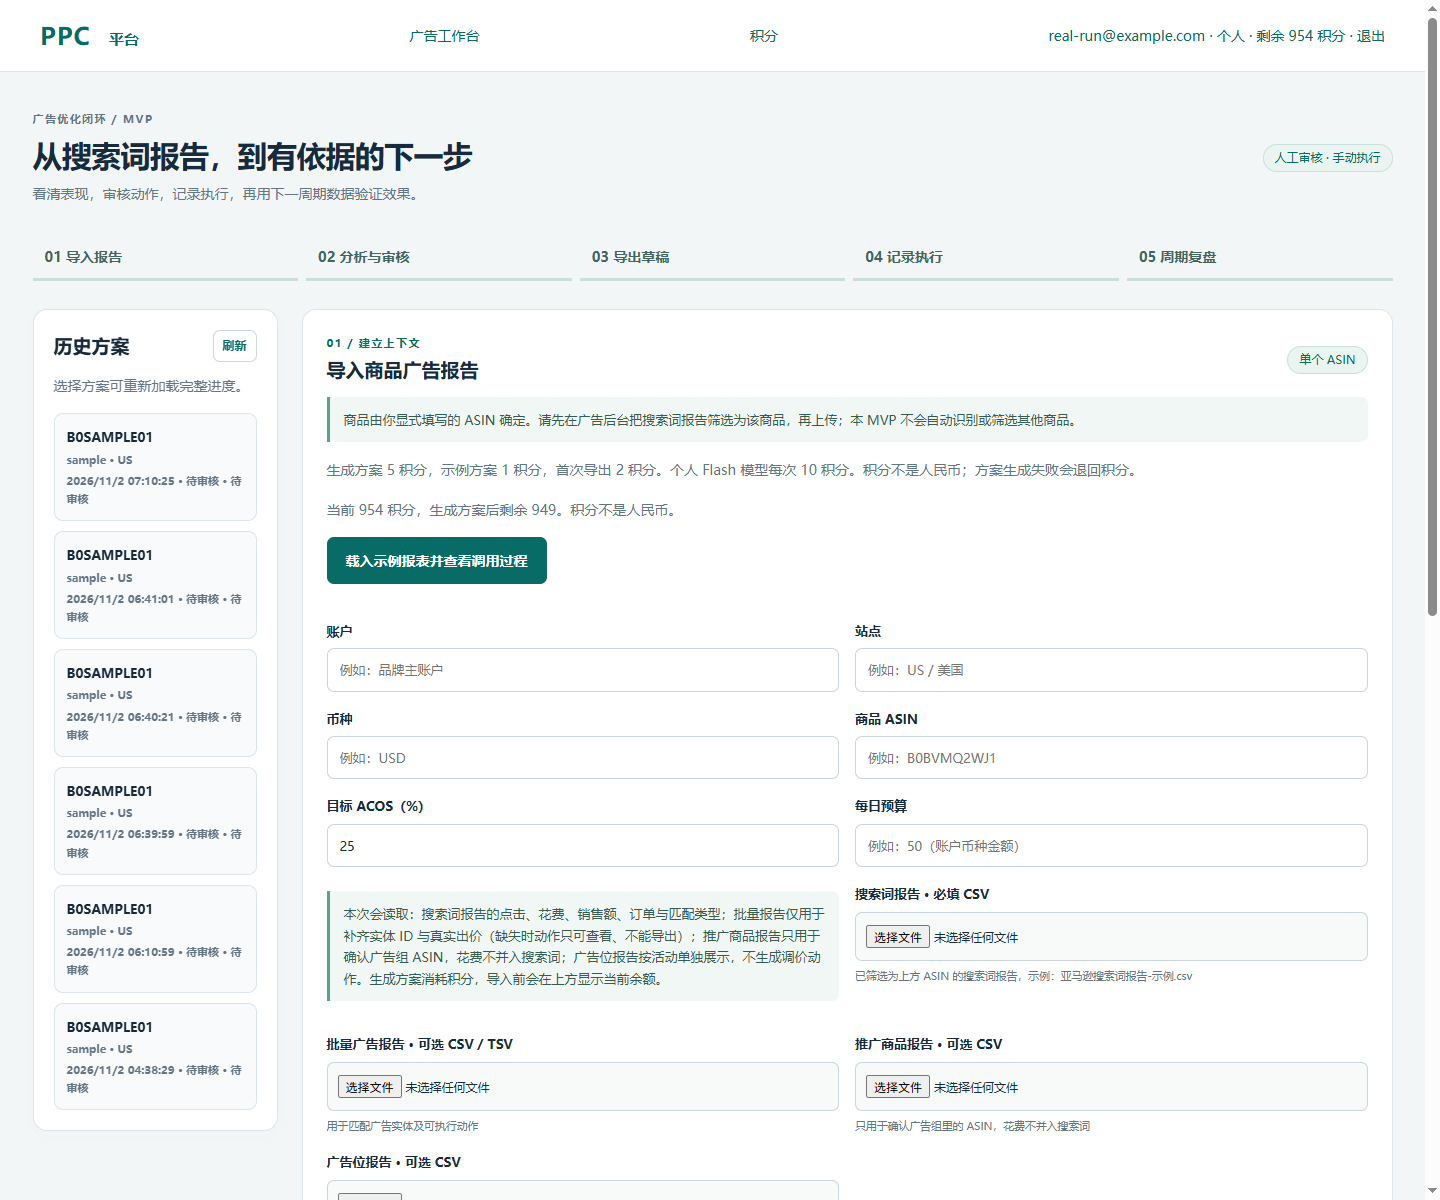
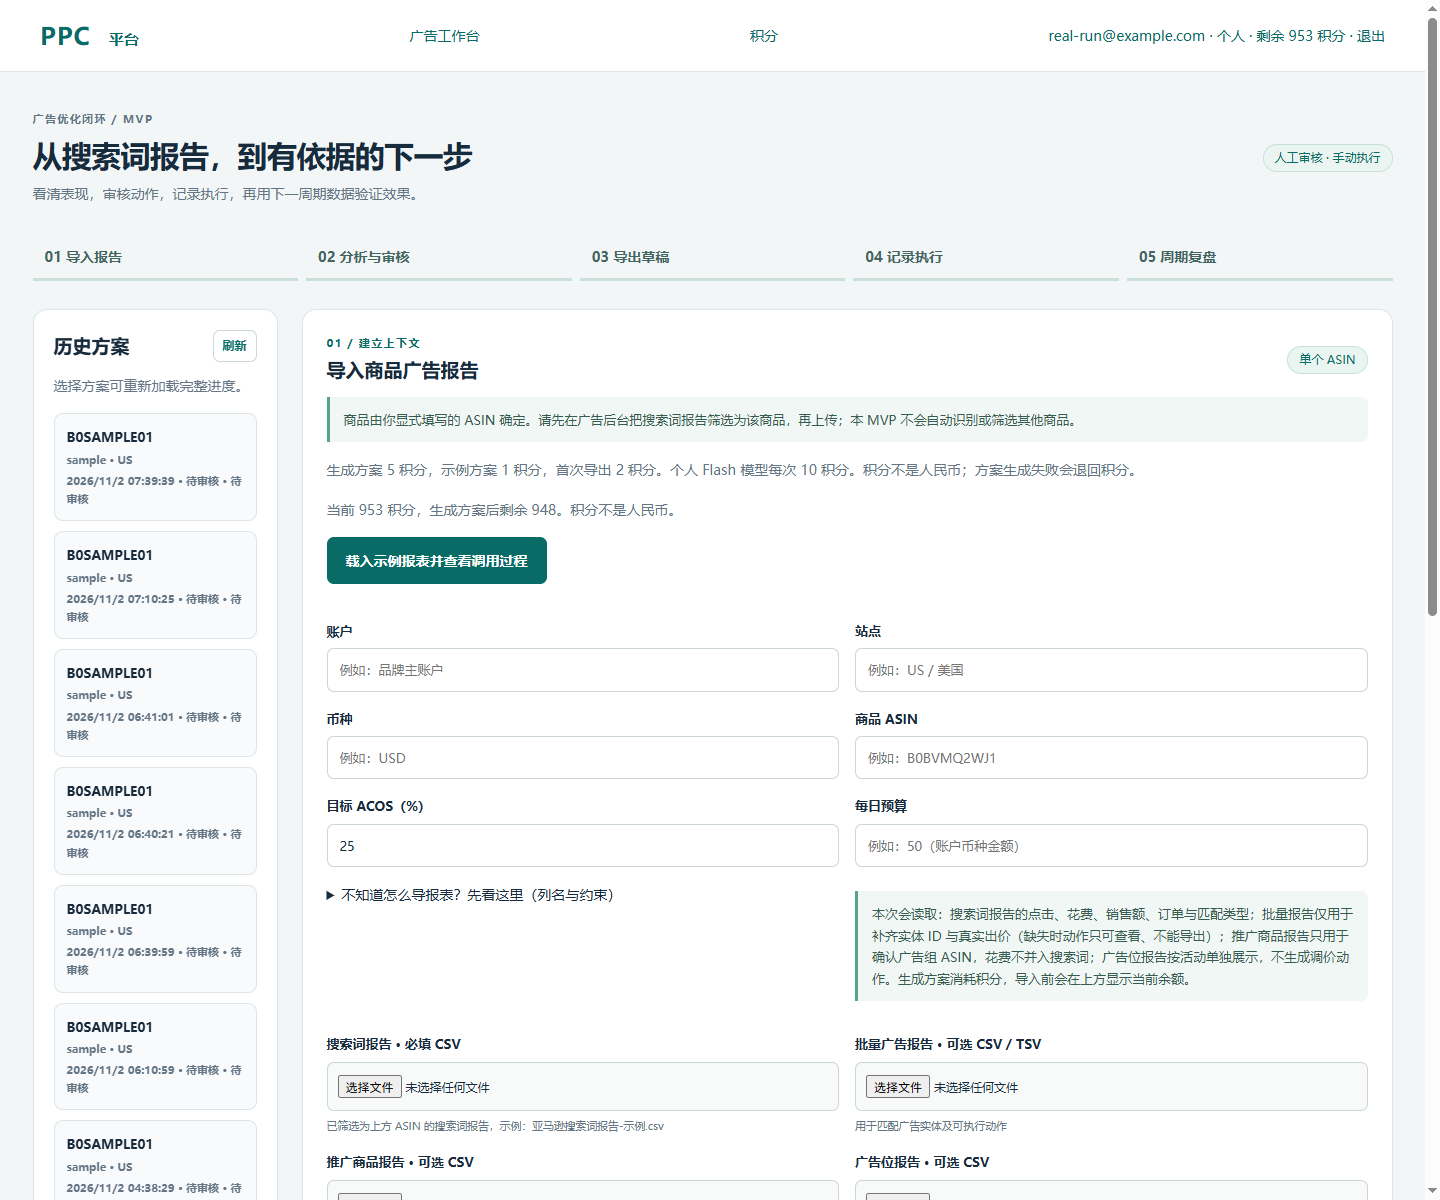
feat: add import report help with backend-synced column checks

diff --git a/frontend/workflow.html b/frontend/workflow.html
@@ -35,7 +35,13 @@
           <label>商品 ASIN<input name="asin" required maxlength="100" placeholder="例如：B0BVMQ2WJ1"></label>
           <label>目标 ACOS（%）<input name="target_acos" type="number" required min="0.01" step="0.01" value="25"></label>
           <label>每日预算<input name="daily_budget" type="number" required min="0.01" step="0.01" placeholder="例如：50（账户币种金额）"></label>
-          <p class="callout" id="import-scope">本次会读取：搜索词报告的点击、花费、销售额、订单与匹配类型；批量报告仅用于补齐实体 ID 与真实出价（缺失时动作只可查看、不能导出）；推广商品报告只用于确认广告组 ASIN，花费不并入搜索词；广告位报告按活动单独展示，不生成调价动作。生成方案消耗积分，导入前会在上方显示当前余额。</p>
+          <details id="import-help"><summary>不知道怎么导报表？先看这里（列名与约束）</summary>
+          <p>搜索词报告<b>必须</b>包含这些列（中英文表头都认）：客户搜索词 / Customer Search Term、广告活动 / Campaign、广告组 / Ad Group、关键词 / Keyword、匹配类型 / Match Type、花费 / Spend、销售额 / Sales、订单 / Orders、点击 / Clicks。</p>
+          <p>可选但有用：日期 / Date（或开始日期 / 结束日期），用于确定周期；账户 / Account、站点 / Marketplace、币种 / Currency、ASIN，用于和上方填写的上下文核对——报告里有这些列时会和要求的值逐一比对，不一致会直接失败。</p>
+          <p>约束：请先按<b>单个 ASIN</b> 筛选再导出，本工作台一次只分析一个商品；周期建议 30–60 天且区间连续；不要提交同维度同周期的重复行（会被拒绝）。</p>
+          <p><b>后台路径请以你自己账户的 Seller Central 为准</b>：不同站点、语言和改版后菜单位置会变化，我们无法替你确认；导出的 CSV 若缺列，系统会明确列出缺少哪些列。</p>
+        </details>
+        <p class="callout" id="import-scope">本次会读取：搜索词报告的点击、花费、销售额、订单与匹配类型；批量报告仅用于补齐实体 ID 与真实出价（缺失时动作只可查看、不能导出）；推广商品报告只用于确认广告组 ASIN，花费不并入搜索词；广告位报告按活动单独展示，不生成调价动作。生成方案消耗积分，导入前会在上方显示当前余额。</p>
           <label class="file-field">搜索词报告 · 必填 CSV<input name="search_terms" type="file" accept=".csv" required><small>已筛选为上方 ASIN 的搜索词报告，示例：亚马逊搜索词报告-示例.csv</small></label>
           <label class="file-field">批量广告报告 · 可选 CSV / TSV<input name="bulk" type="file" accept=".csv,.tsv"><small>用于匹配广告实体及可执行动作</small></label>
           <label class="file-field">推广商品报告 · 可选 CSV<input name="advertised_products" type="file" accept=".csv"><small>只用于确认广告组里的 ASIN，花费不并入搜索词</small></label>

diff --git a/docs/原型对标技术拆解.md b/docs/原型对标技术拆解.md
@@ -113,4 +113,15 @@ D1 → D2 → D3（P0 一次提交）；D4 → D5 → D6（P1 一次提交）。
 - D16 **仪表盘结论句**（2026-11-02 落地）：`reading.js` 新增 `planListConclusion()`，在最近方案列表上方给出「共 N 个方案：可导出 M 个、待审核 K 个 + 下一步指引」，并固定声明列表中的可核对花费不是已节省广告费。真实账号实测：「共 7 个方案：可导出 0 个、待审核 7 个。建议先处理最近的待审核方案，逐项批准后再导出。」
   - 测试 13 项（reading.test.cjs）：含空列表指向下一步、可导出/待审核计数、全部可导出时改为下载核对指引、不把历史花费写成节省。
 
+## D17 导入帮助块（2026-11-02，回应插件门槛暴露的短板）
+
+YICOPY 用「浏览器插件 + 网页」解决数据获取，我们是纯服务端、用户必须手动去后台导 CSV。插件形态短期做不了，但可以让手动导出**不出错**：工作台导入区增加可折叠的「不知道怎么导报表？」帮助块，写明：
+
+- 搜索词报告必须包含的列（中英文表头都认，与 `ALIASES` 一致）
+- 可选但有用的列（日期、账户、站点、币种、ASIN），并说明报告里有这些列时会与填写的上下文逐一比对、不一致直接失败
+- 约束：先按单个 ASIN 筛选、周期建议 30–60 天且连续、不要有同维度同周期重复行
+- **明确不冒充知道后台菜单位置**：不同站点/语言/改版会变，请用户以自己账户为准；缺列时系统会列出缺少哪些列
+
+配套 `frontend/tests/import-help.test.cjs` 4 项：帮助文案必须覆盖后端 `parse_search` 里 `required` 的每一列（直接从 service.py 解析，后端改列会导致测试失败）、必须写明单 ASIN 与周期约束、不得编造后台点击路径；另加一条防止解析为空导致测试空过。
+
 - 均已在真实浏览器截图验证（`docs/对标快照/local-workflow.png`）。
